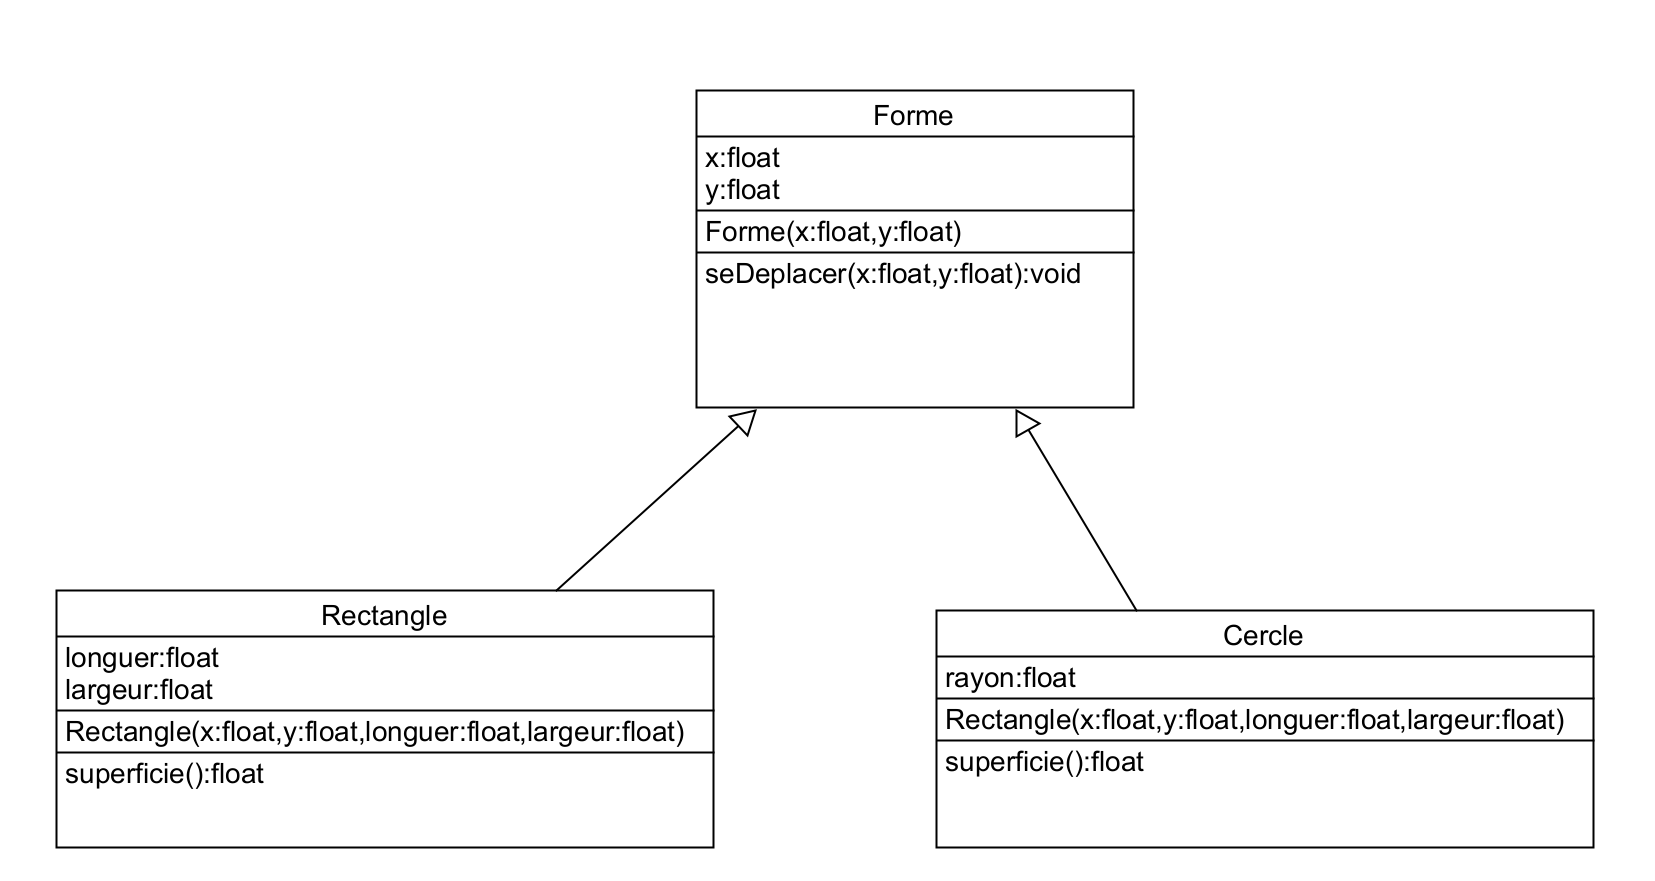
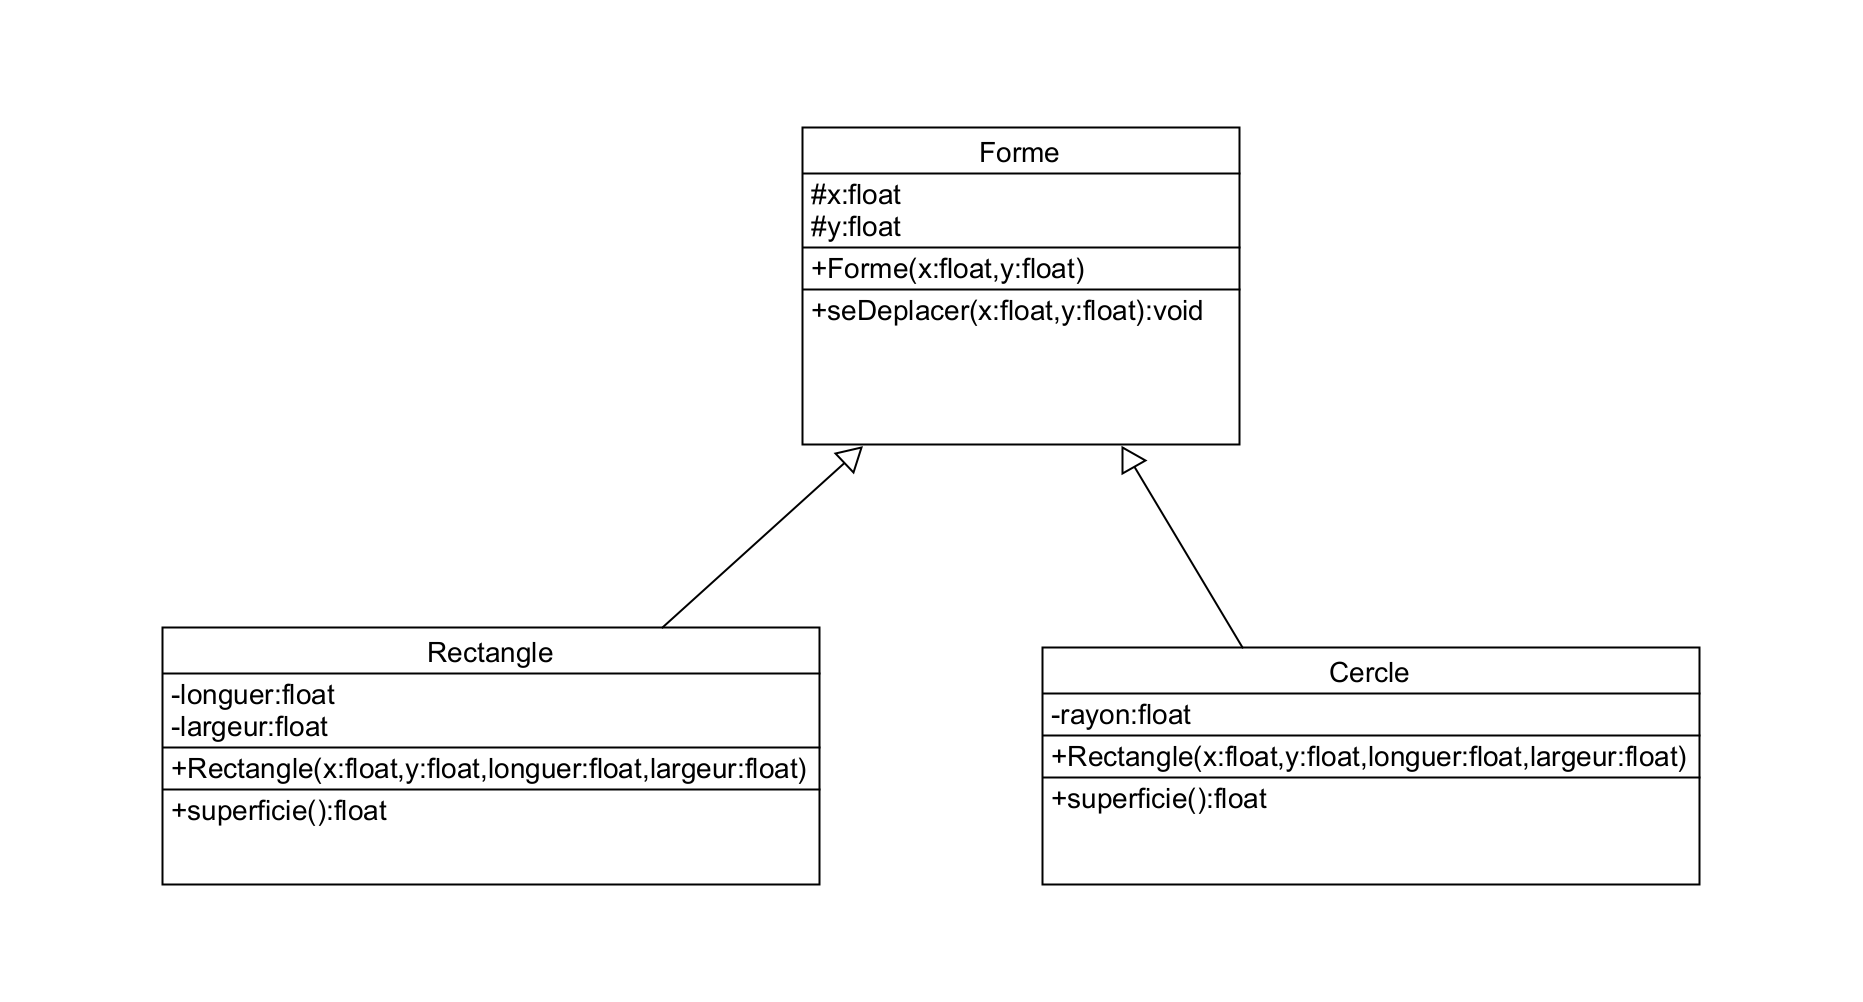
a

diff --git a/01 les Modules/05 Héritage.md b/01 les Modules/05 Héritage.md
@@ -1,6 +1,14 @@
 # Mise en place de l'héritage
-
-Pour solutionner une problèmatique.  
+Le mot héritage est souvent utilisé dans un cadre de sucession ou de génétique. Il implique que les descendants possèdent une partie des gènes ou des biens de leurs ascendants.  
+  
+**Et en programmation orientée objet ?**
+  
+Pour les néophytes, définissons ce qu'est l'héritage en POO (Programmation orientée objet) :  
+  
+Pour faire simple, c'est un mécanisme qui va permetttre, comme son nom l'indique, de transmettre toutes les méthodes et les attributs d'une classe dite "mère" vers une autre dite "fille" et ainsi de suite.  
+  
+  
+:warning: Pour solutionner une problèmatique.  
 La code de la fonction <code>seDeplacer()</code> se trouve identique dans 2 classes.  
  
 <img src="../img/05/rectangle.png" width="800">
@@ -13,5 +21,64 @@ avec les attribute x et y
 et la méthode se déplacer
 
 <img src="../img/05/rectangle-2.png" width="800">
+![alt text](image.png)
 
+# Forme.php
+```php
+<?php
+namespace Classes;
 
+class Forme{
+    protected ?Float $x =null;
+    protected ?Float $y=null;
+    
+    public function __construct(?Float $x,?Float $y){
+            $this->x=$x;
+            $this->y=$y;
+    }
+
+    public function getX ():?Float{
+        return $this->x;
+    }    
+    public function setX (Float $x):void{
+        $this->x=$x;
+    } 
+     public function getY ():?Float{
+        return $this->y;
+    }    
+    public function setY (Float $y):void{
+        $this->y=$y;
+    } 
+}
+```
+
+# Rectangle.php
+```php
+<?php
+namespace Classes;
+use Classes\Forme;
+class Rectangle extends Forme{
+
+    private ?Float $longueur = null;
+    private ?Float $largeur = null;
+
+    public function __construct(Float $x,Float $y,Float $longueur,Float $largeur){
+            parent::__construct($x,$y);
+            $this->longueur=$longueur;
+            $this->largeur=$largeur;
+    }
+    public function getLongueur ():?Float{
+        return $this->longueur;
+    }    
+    public function setlongueur (Float $longueur):void{
+        $this->longueur=$longueur;
+    } 
+    public function getLargeur ():?Float{
+        return $this->largeur;
+    }    
+    public function setLargeur (Float $largeur):void{
+        $this->largeur=$largeur;
+    } 
+}
+
+```

diff --git a/01 les Modules/04 Ma première classe.md b/01 les Modules/04 Ma première classe.md
@@ -1,4 +1,14 @@
 # 04 - Ma première classe
+
+Présentation de UMLET
+
+diagramme uml de personne
+
+<code>+</code> public  
+<code>-</code> public  
+<code>#</code> protected  
+
+le contructuer :
 ```php
 <?php
 namespace Classes;
@@ -13,7 +23,7 @@ class Personne{
 }
 ```
 
-Mise en place de plusieurs constructeurs
+
 avec <code>?</code>
 ```php
 <?php
@@ -27,16 +37,16 @@ class Personne{
             $this->nom=$nom;
             $this->prenom=$prenom;
     }
-    public function getNom ():?Float{
+    public function getNom ():?String{
         return $this->nom;
     }    
-    public function setNom (Float $nom):void{
+    public function setNom (String $nom):void{
         $this->nom=$nom;
     } 
-        public function getPrenom ():?Float{
+        public function getPrenom ():?String{
         return $this->prenom;
     }    
-    public function setPrenom (Float $prenom):void{
+    public function setPrenom (String $prenom):void{
         $this->prenom=$prenom;
     } 
 }
@@ -58,16 +68,16 @@ class Personne{
             $this->nom=$nom;
             $this->prenom=$prenom;
     }
-    public function getNom ():?Float{
+    public function getNom ():?String{
         return $this->nom;
     }    
-    public function setNom (Float $nom):void{
+    public function setNom (String $nom):void{
         $this->nom=$nom;
     } 
-        public function getPrenom ():?Float{
+        public function getPrenom ():?String{
         return $this->prenom;
     }    
-    public function setPrenom (Float $prenom):void{
+    public function setPrenom (String $prenom):void{
         $this->prenom=$prenom;
     } 
     public function getFullname():String{
@@ -76,4 +86,25 @@ class Personne{
 }
 
 
+```
+
+Mise en place de plusieurs constructeurs
+```php
+public function __construct(?String $nom='',?String $prenom=''){
+            $this->nom=$nom;
+            $this->prenom=$prenom;
+    }
+```
+
+**Je teste**
+```php
+<?php	
+require_once('./config/config.php');
+var_dump(VENDOR_ROOT);
+require_once(VENDOR_ROOT.'/autoload.php');
+
+use Classes\Personne;
+ $personne = new Personne('DOE','John');
+ var_dump($personne);
+ $personne = new Personne('DOE 2');
 ```

diff --git a/01 les Modules/06 Une classe abstraite.md b/01 les Modules/06 Une classe abstraite.md
@@ -1,0 +1,25 @@
+
+# Une classe Abstraite
+PHP a des classes, méthodes et propriétés abstraites. Les classes définies comme abstraites ne peuvent pas être instanciées, et toute classe contenant au moins une méthode abstraite doit elle-aussi être abstraite. Les méthodes définies comme abstraites se contentent de déclarer la signature de la méthode et d'indiquer si elle est publique ou protégée ; elles ne peuvent pas définir l'implémentation. Les propriétés définies comme abstraites peuvent déclarer une exigence pour le comportement de get ou de set, et peuvent fournir une implémentation pour l'une de ces opérations, mais pas les deux.  
+
+Lors de l'héritage d'une classe abstraite, toutes les méthodes marquées comme abstraites dans la déclaration de la classe parente doivent être définies par la classe enfant et suivre les règles habituelles d'héritage et de compatibilité de signature.  
+  
+<code>abstract</code> devant <code>class</code> permet de définir une classe abstraite.
+
+Il n'est pas possible d'instancier une classe abstraite.
+
+Nous décidons de mettre Forme en classe abstraite.  
+Il n'est plus possible de créer des objets de type <code>Forme</code>
+Il n'est possible d'utiliser Forme que par héritage.
+# Forme.php
+```php
+<?php
+abstract class Forme{
+\\...
+}
+```
+:warning: Ceci n'est plus possible !
+
+```php
+$forme1 = new Forme(1,1);
+```
